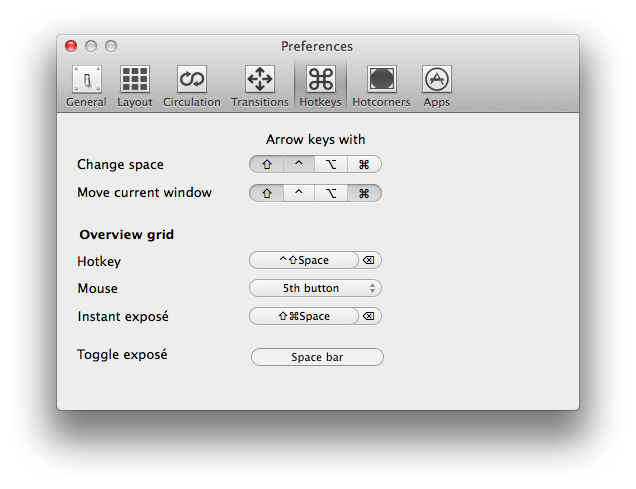
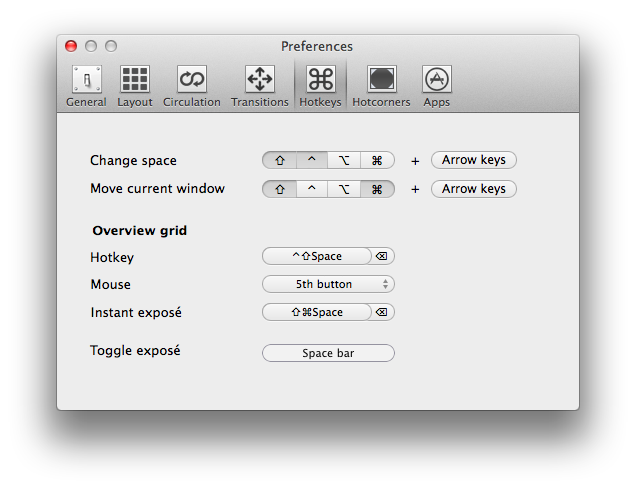
Updates to hotkeys docs

diff --git a/hotkeys2.md b/hotkeys2.md
@@ -12,7 +12,15 @@ And you can set a hotkey to open the [Overview Grid](/overview2) and have it swi
 
 <img src="/images/hotkeys-preferences-ts2.png" class="prefs-screenshot">
 
+To change the modifier keys to use with the arrow keys, just click on the symbols. They are, in order, shift, ctrl, option/alt and cmd. Here I have selected shift-ctrl for changing space, and shift-cmd for moving a window and changing space.
+
+If you wish to set custom hotkeys and not use the arrow keys, you can do this by clicking the Arrow keys button, and choosing Custom in the popover dialog.
+
+<img src="/images/hotkeys-preferences-ts2-2.png" class="prefs-screenshot">
+
 You can click inside the hotkey recorder to change the hotkey setting.
+
+Here you can use Fn with the arrow keys if you wish.
 
 Some hotkey combinations are already reserved - TotalSpaces will warn you about this if it's the case, and give you the option to try to force assignment of the hotkey, as some system hotkeys are still marked as reserved by the system even when they are not being used.
 
